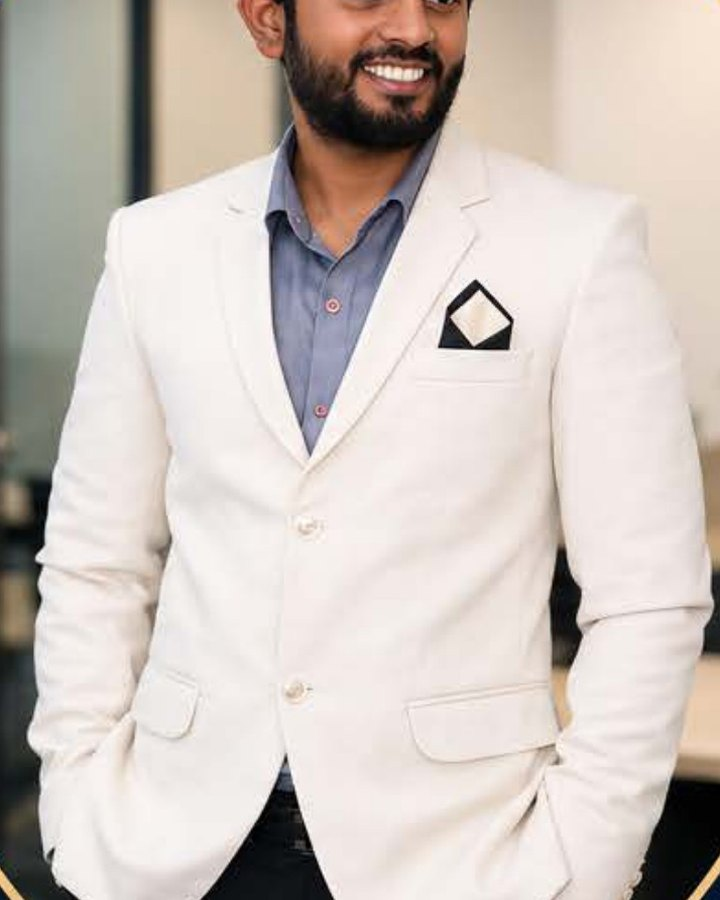
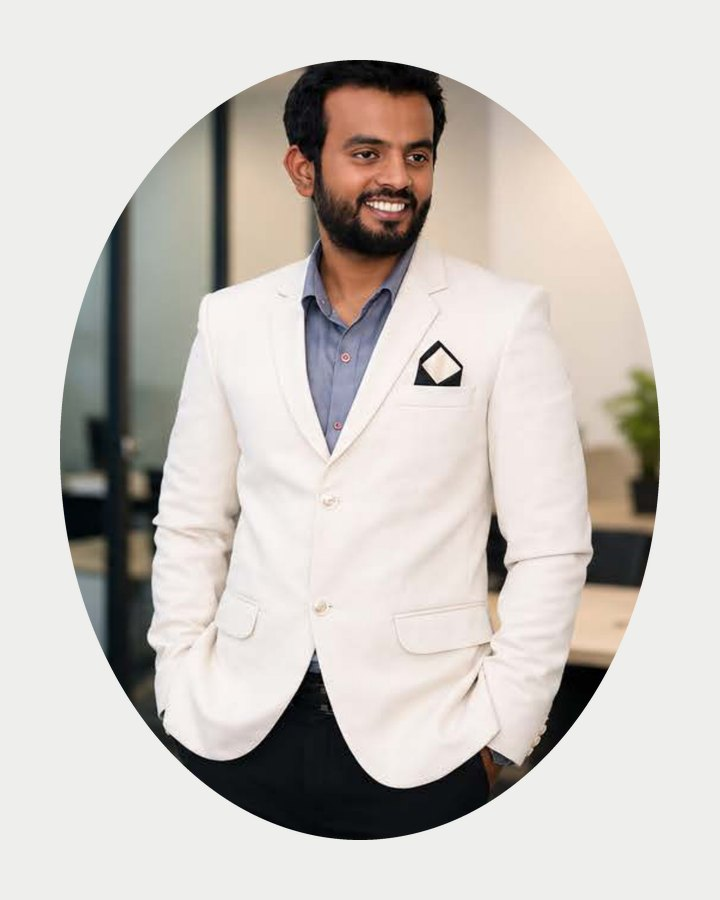
Oval team portraits, typographic brand marquee with view-all toggle

diff --git a/index.html b/index.html
@@ -97,27 +97,15 @@
 </section>
 
 <!-- ===== Brands ===== -->
-<section class="band">
+<section class="band" aria-label="Brands we have worked with">
   <div class="container">
     <div class="band__card">
       <p class="band__label">Trusted by brands and partners across F&amp;B, retail and hospitality</p>
-      <div class="logo-grid">
-        <div class="logo-tile"><img src="assets/img/brands/pvr.png" alt="PVR"></div>
-        <div class="logo-tile"><img src="assets/img/brands/yum.png" alt="Yum! Brands"></div>
-        <div class="logo-tile"><img src="assets/img/brands/pizza-hut.png" alt="Pizza Hut"></div>
-        <div class="logo-tile"><img src="assets/img/brands/tfs.png" alt="TFS"></div>
-        <div class="logo-tile"><img src="assets/img/brands/sapphire-foods.png" alt="Sapphire Foods"></div>
-        <div class="logo-tile"><img src="assets/img/brands/devyani.png" alt="Devyani International"></div>
-        <div class="logo-tile"><img src="assets/img/brands/lite-bite.png" alt="Lite Bite Foods"></div>
-        <div class="logo-tile"><img src="assets/img/brands/food-forum.png" alt="Food Forum"></div>
-        <div class="logo-tile logo-tile--text"><span>Yo! China</span></div>
-        <div class="logo-tile logo-tile--text"><span>The Coffee Bean<br>&amp; Tea Leaf</span></div>
-        <div class="logo-tile logo-tile--text"><span>Punjab Grill</span></div>
-        <div class="logo-tile logo-tile--text"><span>Brijwasi</span></div>
-        <div class="logo-tile logo-tile--text"><span>Absolute Barbecue</span></div>
-        <div class="logo-tile logo-tile--text"><span>The Yellow Chilli</span></div>
-        <div class="logo-tile logo-tile--text"><span>Hero MotoCorp</span></div>
+      <div class="marquee">
+        <div class="marquee__track"><span>PVR</span><span>Yum! Brands</span><span>Pizza Hut</span><span>TFS Food Forum</span><span>Sapphire Foods</span><span>Devyani International</span><span>Lite Bite Foods</span><span>The Coffee Bean &amp; Tea Leaf</span><span>Yo! China</span><span>Punjab Grill</span><span>Brijwasi</span><span>Absolute Barbecue</span><span>The Yellow Chilli</span><span>Hero MotoCorp</span><span>PVR</span><span>Yum! Brands</span><span>Pizza Hut</span><span>TFS Food Forum</span><span>Sapphire Foods</span><span>Devyani International</span><span>Lite Bite Foods</span><span>The Coffee Bean &amp; Tea Leaf</span><span>Yo! China</span><span>Punjab Grill</span><span>Brijwasi</span><span>Absolute Barbecue</span><span>The Yellow Chilli</span><span>Hero MotoCorp</span></div>
       </div>
+      <div class="band__actions"><button class="btn btn--ghost btn--sm" type="button" data-brands-toggle aria-expanded="false" aria-controls="all-brands">View all brands</button></div>
+      <div class="band__all" id="all-brands" hidden><ul><li>PVR</li><li>Yum! Brands</li><li>Pizza Hut</li><li>KFC</li><li>TFS Food Forum</li><li>Sapphire Foods</li><li>Devyani International</li><li>Lite Bite Foods</li><li>The Coffee Bean &amp; Tea Leaf</li><li>Yo! China</li><li>Punjab Grill</li><li>Yoomee</li><li>Dravidam</li><li>Brijwasi</li><li>Absolute Barbecue</li><li>The Yellow Chilli</li><li>Gamma</li><li>Hero MotoCorp</li><li>JIIMS</li><li>BBD Time Square</li><li>Central Ikon Mall</li><li>Rise Mall</li><li>Spectrum Metro Mall</li><li>Aditya Tech Park</li></ul></div>
     </div>
   </div>
 </section>
@@ -357,8 +345,7 @@
           <h3 class="member__name">Ankit Pandey</h3>
           <p class="member__role">Principal Architect &amp; Director</p>
           <p class="member__bio">15+ years across corporate, retail, hospitality and residential projects. Leads every ADB project personally, from site visit to handover.</p>
-          <details class="member__more"><summary>More about Ankit</summary><p>A specialist in international compliance auditing and consultancy across North Asia, including Japan and South Korea. Key collaborations include Lite Bite Foods, Devyani International, Sapphire Foods, TFS Food Forum, PVR, Brijwasi, Absolute Barbecue, The Yellow Chilli and Gamma franchisees.</p>
-          <div class="logo-row"><img src="assets/img/brands/pvr.png" alt="PVR"><img src="assets/img/brands/yum.png" alt="Yum! Brands"><img src="assets/img/brands/pizza-hut.png" alt="Pizza Hut"><img src="assets/img/brands/tfs.png" alt="TFS"><img src="assets/img/brands/sapphire-foods.png" alt="Sapphire Foods"><img src="assets/img/brands/devyani.png" alt="Devyani International"><img src="assets/img/brands/lite-bite.png" alt="Lite Bite Foods"></div></details>
+          <details class="member__more"><summary>More about Ankit</summary><p>A specialist in international compliance auditing and consultancy across North Asia, including Japan and South Korea. Key collaborations include Lite Bite Foods, Devyani International, Sapphire Foods, TFS Food Forum, PVR, Brijwasi, Absolute Barbecue, The Yellow Chilli and Gamma franchisees.</p></details>
           <div class="member__links"><a href="mailto:ankit@thearcusdesignbuild.com">ankit@thearcusdesignbuild.com</a></div>
         </div>
       </article>
@@ -368,8 +355,7 @@
           <h3 class="member__name">Qamar Abbas</h3>
           <p class="member__role">Senior Interior Designer</p>
           <p class="member__bio">15+ years in interior design and project execution across corporate, healthcare, retail and hospitality, with a focus on practical, cost-effective detailing.</p>
-          <details class="member__more"><summary>More about Qamar</summary><p>An Interior Design graduate of Gloshine College, Bareilly. Formerly Team Leader and Design Head at Genesis Architect Pvt. Ltd., and Project Coordinator with Al Arif Group in Dubai, with hospitality experience for Marriott, Hilton and Taj.</p>
-          <div class="logo-row"><img src="assets/img/brands/genesis.png" alt="Genesis Architect"><img src="assets/img/brands/al-arif.png" alt="Al Arif Group"><img src="assets/img/brands/marriott.png" alt="Marriott International"><img src="assets/img/brands/hilton.png" alt="Hilton"><img src="assets/img/brands/taj.png" alt="Taj Hotels"></div></details>
+          <details class="member__more"><summary>More about Qamar</summary><p>An Interior Design graduate of Gloshine College, Bareilly. Formerly Team Leader and Design Head at Genesis Architect Pvt. Ltd., and Project Coordinator with Al Arif Group in Dubai, with hospitality experience for Marriott, Hilton and Taj.</p></details>
         </div>
       </article>
       <article class="member reveal">

diff --git a/assets/css/style.css b/assets/css/style.css
@@ -199,19 +199,23 @@ body.menu-open .nav .logo__mark span { color: var(--ink); }
 .hero__dots button { width: 1.6rem; height: 3px; background: rgba(255,255,255,.35); border-radius: 2px; padding: 0; transition: background .3s; }
 .hero__dots button.is-active { background: var(--white); }
 
-/* brand band (benchmark: client strip) */
+/* brand band: scrolling typographic strip */
 .band { position: relative; z-index: 2; padding: clamp(1.5rem, 4vw, 3rem) 0 0; }
-.band__card { background: var(--white); border: 1px solid var(--g200); border-radius: var(--r-lg); box-shadow: var(--shadow); padding: clamp(1.2rem, 3vw, 2rem); display: grid; gap: 1.2rem; }
-.band__label { text-align: center; font-size: .72rem; font-weight: 600; letter-spacing: .14em; text-transform: uppercase; color: var(--g500); }
-.logo-grid { display: grid; grid-template-columns: repeat(3, minmax(0, 1fr)); gap: .6rem; }
-@media (min-width: 700px) { .logo-grid { grid-template-columns: repeat(5, minmax(0, 1fr)); gap: .8rem; } }
-.logo-tile { position: relative; display: grid; place-items: center; min-width: 0; overflow: hidden; aspect-ratio: 5 / 3; padding: 0; border: 1px solid var(--g200); border-radius: var(--r-sm); background: var(--paper); transition: background .3s, border-color .3s; }
-.logo-tile:hover { background: var(--white); border-color: var(--g400); }
-.logo-tile img { position: absolute; left: 14%; top: 18%; width: 72%; height: 64%; object-fit: contain; filter: grayscale(1); opacity: .85; transition: filter .4s, opacity .4s; }
-.logo-tile:hover img { filter: none; opacity: 1; }
-.logo-tile--text span { padding: .4rem; font-weight: 800; font-size: clamp(.62rem, 1.4vw, .95rem); letter-spacing: .04em; text-transform: uppercase; text-align: center; line-height: 1.2; color: var(--g700); }
-.logo-tile--text:hover span { color: var(--ink); }
-.marquee { overflow: hidden; }
+.band__card { background: var(--white); border: 1px solid var(--g200); border-radius: var(--r-lg); box-shadow: var(--shadow); padding: 1.4rem 0 1.5rem; display: grid; gap: 1rem; overflow: hidden; }
+.band__label { text-align: center; font-size: .72rem; font-weight: 600; letter-spacing: .14em; text-transform: uppercase; color: var(--g500); padding-inline: 1.2rem; }
+.marquee { overflow: hidden; -webkit-mask-image: linear-gradient(90deg, transparent, #000 8%, #000 92%, transparent); mask-image: linear-gradient(90deg, transparent, #000 8%, #000 92%, transparent); }
+.marquee__track { display: flex; width: max-content; align-items: center; gap: 0; animation: marquee 50s linear infinite; }
+.marquee__track:hover { animation-play-state: paused; }
+.marquee__track span { display: inline-flex; align-items: center; white-space: nowrap; font-weight: 700; font-size: clamp(1.05rem, 1.9vw, 1.5rem); letter-spacing: -0.01em; color: var(--g700); padding: .2rem 2.2rem; border-right: 1px solid var(--g200); transition: color .3s; }
+.marquee__track span:hover { color: var(--ink); }
+@keyframes marquee { to { transform: translateX(-50%); } }
+@media (prefers-reduced-motion: reduce) { .marquee { mask-image: none; -webkit-mask-image: none; } .marquee__track { animation: none; flex-wrap: wrap; width: auto; justify-content: center; } .marquee__track span { border: 0; padding: .3rem .9rem; } }
+
+.band__actions { display: flex; justify-content: center; padding-top: .2rem; }
+.band__all { padding: .4rem 1.2rem 0; }
+.band__all ul { display: flex; flex-wrap: wrap; justify-content: center; gap: .5rem; }
+.band__all li { padding: .5rem .95rem; border: 1px solid var(--g300); border-radius: 999px; font-size: .85rem; font-weight: 600; color: var(--g700); background: var(--paper); }
+.band__all[hidden] { display: none; }
 
 /* ---------- about ---------- */
 .about { display: grid; gap: 2.5rem; }
@@ -319,7 +323,7 @@ body.menu-open .nav .logo__mark span { color: var(--ink); }
 .member { display: grid; grid-template-columns: 118px 1fr; gap: 1rem; align-items: start; background: var(--white); border: 1px solid var(--g200); border-radius: var(--r-lg); padding: 1rem; box-shadow: var(--shadow); }
 @media (min-width: 600px) { .member { grid-template-columns: 170px 1fr; gap: 1.4rem; padding: 1.3rem; } }
 .member__photo { aspect-ratio: 4 / 5; overflow: hidden; background: var(--g100); border-radius: var(--r); }
-.member__photo img { width: 100%; height: 100%; object-fit: cover; object-position: center top; filter: grayscale(1); transition: filter .6s; }
+.member__photo img { width: 100%; height: 100%; object-fit: cover; filter: grayscale(1); transition: filter .6s; }
 .member:hover .member__photo img { filter: none; }
 .member__mono { width: 100%; height: 100%; display: grid; place-items: center; background: var(--ink); color: var(--white); font-size: clamp(2.2rem, 6vw, 3.4rem); font-weight: 800; letter-spacing: -0.05em; }
 .member__body { min-width: 0; display: grid; gap: .3rem; align-content: start; }
@@ -465,11 +469,6 @@ body.has-mobile-bar { --mobile-bar: 64px; }
 
 /* brand band with logos (light card, grayscale → colour on hover) */
 
-/* small logo rows (team cards) */
-.logo-row { display: flex; flex-wrap: wrap; align-items: center; gap: .5rem .9rem; margin-top: .8rem; }
-.logo-row img { height: 20px; width: auto; max-width: 90px; object-fit: contain; filter: grayscale(1); opacity: .75; transition: filter .3s, opacity .3s; }
-.logo-row img:hover { filter: none; opacity: 1; }
-.logo-row small { width: 100%; font-size: .68rem; letter-spacing: .1em; text-transform: uppercase; color: var(--g500); font-weight: 600; }
 
 /* why ADB */
 .why { display: grid; gap: 1rem; grid-template-columns: 1fr; }

diff --git a/assets/js/main.js b/assets/js/main.js
@@ -395,6 +395,18 @@
     window.addEventListener("hashchange", openFromHash);
   }
 
+  /* ---------- brands: view all ---------- */
+  const brandsBtn = $("[data-brands-toggle]");
+  if (brandsBtn) {
+    const panel = document.getElementById(brandsBtn.getAttribute("aria-controls"));
+    brandsBtn.addEventListener("click", () => {
+      const open = brandsBtn.getAttribute("aria-expanded") !== "true";
+      brandsBtn.setAttribute("aria-expanded", String(open));
+      brandsBtn.textContent = open ? "Hide brands" : "View all brands";
+      if (panel) panel.hidden = !open;
+    });
+  }
+
   /* ---------- misc ---------- */
   $$("[data-year]").forEach((el) => { el.textContent = new Date().getFullYear(); });
   $$("[data-project-count]").forEach((el) => { el.textContent = P.length; });
